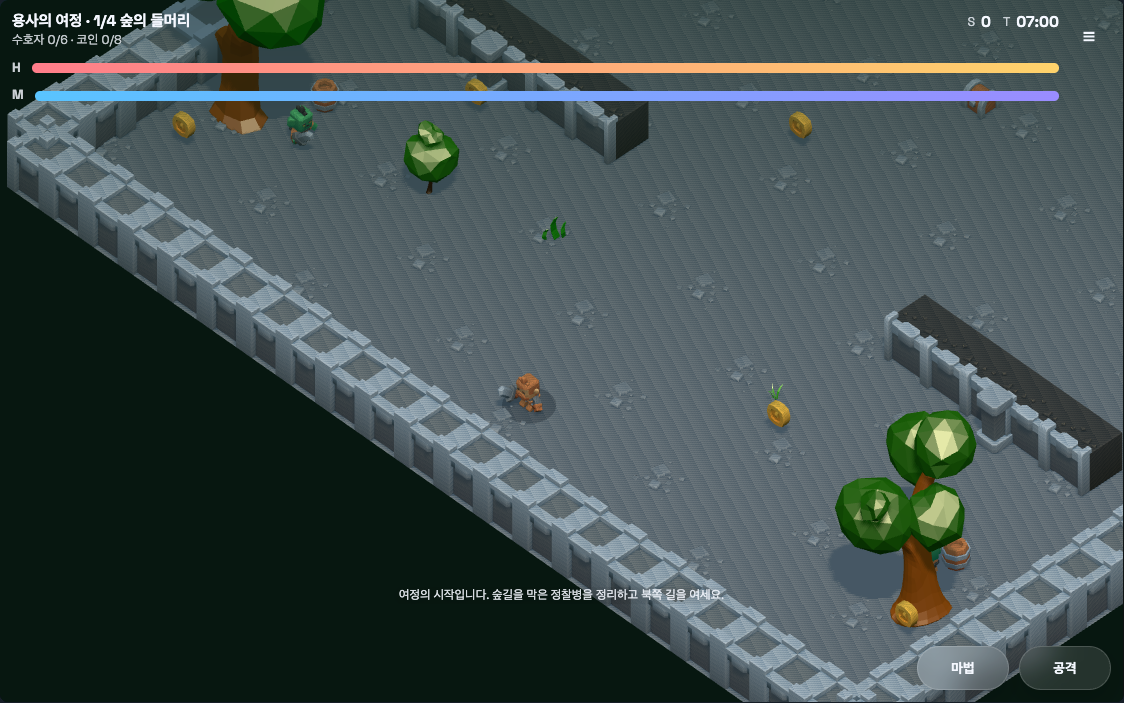
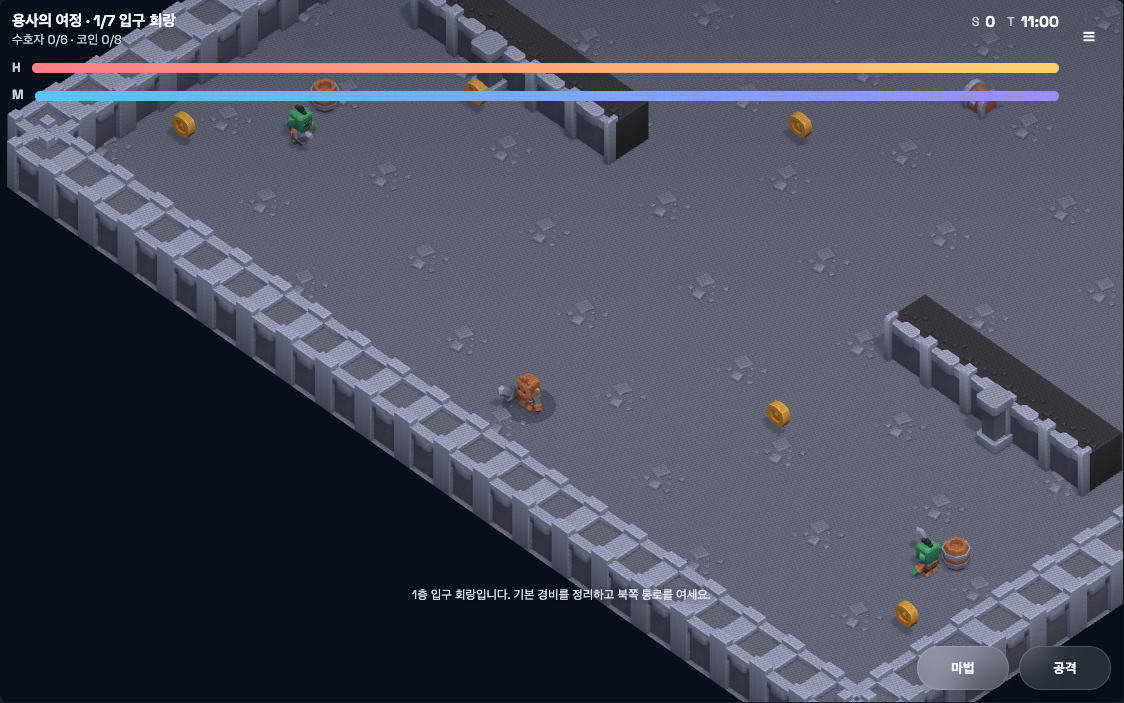
Keep dungeon stages in hero journey

diff --git a/apps/web/src/game-runtime/hero-journey.ts b/apps/web/src/game-runtime/hero-journey.ts
@@ -807,8 +807,8 @@ const JOURNEY_THEMES: Record<
     sunPosition: [2.8, 12, 5.5],
   },
   ruin: {
-    background: '#080f16',
-    fog: '#101a24',
+    background: '#071019',
+    fog: '#071019',
     fogNear: 14,
     fogFar: 40,
     sky: '#f4f8ff',
@@ -878,7 +878,7 @@ const ENEMY_RADIUS = 0.38;
 const DUEL_MELEE_DAMAGE = 18;
 const DUEL_MAGIC_DAMAGE = 14;
 const DUEL_TOTAL_TIME_MS = 180_000;
-const SOLO_TOTAL_TIME_MS = 420_000;
+const SOLO_TOTAL_TIME_MS = 660_000;
 const P2P_SNAPSHOT_INTERVAL_MS = 60;
 const P2P_ICE_GATHERING_TIMEOUT_MS = 2_500;
 const P2P_HOST_HEARTBEAT_INTERVAL_MS = 1_500;
@@ -1297,23 +1297,15 @@ function createDungeonLevels(): DungeonLevelConfig[] {
   pushHorizontalWalls(keep.walls, -6.5, -3, 3, { half: true });
 
   return [{
-    id: 'forest-road',
-    name: '숲의 들머리',
-    biome: 'forest',
-    quest: '숲길의 정찰병을 제압하고 첫 보물상자를 여세요.',
-    intro: '여정의 시작입니다. 숲길을 막은 정찰병을 정리하고 북쪽 길을 여세요.',
-    clearText: '숲길을 돌파했습니다. 사막 협곡으로 향합니다.',
+    id: 'gate-hall',
+    name: '입구 회랑',
+    biome: 'ruin',
+    quest: '흩어진 경비를 제압하고 첫 보물상자를 여세요.',
+    intro: '1층 입구 회랑입니다. 기본 경비를 정리하고 북쪽 통로를 여세요.',
+    clearText: '입구 회랑 돌파. 무너진 채석장으로 내려갑니다.',
     map: {
       ...entrance,
       props: [
-        { key: 'forest-pack', x: 0, z: -15.0, radius: 0, rotationQuarter: 0 },
-        { key: 'tree-1', x: -8.6, z: 8.0, radius: 0.62, rotationQuarter: 1 },
-        { key: 'tree-2', x: 8.5, z: 8.2, radius: 0.62, rotationQuarter: 3 },
-        { key: 'tree-3', x: -8.2, z: -8.2, radius: 0.62, rotationQuarter: 0 },
-        { key: 'bush-1', x: 7.8, z: -7.8, radius: 0.42, rotationQuarter: 2 },
-        { key: 'bush-2', x: -5.2, z: 6.7, radius: 0.42, rotationQuarter: 0 },
-        { key: 'grass-1', x: -2.8, z: 6.0, radius: 0, rotationQuarter: 0 },
-        { key: 'grass-2', x: 2.9, z: 6.1, radius: 0, rotationQuarter: 0 },
         { key: 'column', x: -6.4, z: -4.1, radius: 0.44, rotationQuarter: 0 },
         { key: 'column', x: 6.4, z: -4.1, radius: 0.44, rotationQuarter: 0 },
         { key: 'column', x: -6.4, z: 4.1, radius: 0.44, rotationQuarter: 0 },
@@ -1350,23 +1342,15 @@ function createDungeonLevels(): DungeonLevelConfig[] {
     },
   },
   {
-    id: 'sunken-canyon',
-    name: '사막 협곡',
-    biome: 'desert',
-    quest: '메마른 협곡의 잔해와 함정을 지나 길잡이 몹을 끊어내세요.',
-    intro: '뜨거운 사막 협곡입니다. 바위, 마른 풀, 함정이 길을 좁힙니다.',
-    clearText: '사막 협곡을 벗어났습니다. 바람산 고갯길로 진입합니다.',
+    id: 'broken-quarry',
+    name: '무너진 채석장',
+    biome: 'ruin',
+    quest: '잔해와 함정을 지나 빠른 정찰병을 끊어내세요.',
+    intro: '2층은 무너진 채석장입니다. 흙바닥, 돌무더기, 함정이 길을 좁힙니다.',
+    clearText: '채석장 통로 확보. 오래된 금고로 진입합니다.',
     map: {
       ...quarry,
       props: [
-        { key: 'terrain-1', x: -6.6, z: -7.9, radius: 0, rotationQuarter: 0 },
-        { key: 'terrain-2', x: 6.5, z: 6.6, radius: 0, rotationQuarter: 2 },
-        { key: 'rock-1', x: -8.1, z: 2.2, radius: 0.58, rotationQuarter: 0 },
-        { key: 'rock-3', x: 8.0, z: 1.9, radius: 0.58, rotationQuarter: 1 },
-        { key: 'rock-6', x: 6.9, z: -8.2, radius: 0.58, rotationQuarter: 2 },
-        { key: 'plant-1', x: -8.7, z: 7.8, radius: 0, rotationQuarter: 0 },
-        { key: 'plant-4', x: 8.8, z: 7.2, radius: 0, rotationQuarter: 0 },
-        { key: 'plant-5', x: -3.8, z: -7.8, radius: 0, rotationQuarter: 0 },
         { key: 'dirt', x: -8, z: -8, radius: 0, rotationQuarter: 0 },
         { key: 'dirt', x: -7, z: -8, radius: 0, rotationQuarter: 0 },
         { key: 'dirt', x: 7, z: -7, radius: 0, rotationQuarter: 0 },
@@ -1408,22 +1392,15 @@ function createDungeonLevels(): DungeonLevelConfig[] {
     },
   },
   {
-    id: 'wind-pass',
-    name: '바람산 고갯길',
-    biome: 'mountain',
-    quest: '산길의 창병과 방패병을 분리해 고개 중심을 장악하세요.',
-    intro: '차가운 바람산 고갯길입니다. 산등성이와 돌무더기가 시야와 동선을 가릅니다.',
-    clearText: '고갯길을 넘어섰습니다. 잊힌 성소가 보입니다.',
+    id: 'old-vault',
+    name: '오래된 금고',
+    biome: 'ruin',
+    quest: '방패병과 창병을 분리해서 금고 중심을 장악하세요.',
+    intro: '3층 금고입니다. 방패병이 길목을 막고 창병이 긴 사거리로 압박합니다.',
+    clearText: '금고 봉인 해제. 마지막 오크 대장 방으로 향합니다.',
     map: {
       ...vault,
       props: [
-        { key: 'mountain-1', x: -8.3, z: -7.4, radius: 1.15, rotationQuarter: 0 },
-        { key: 'mountain-2', x: 8.2, z: -7.2, radius: 1.15, rotationQuarter: 2 },
-        { key: 'mountain-3', x: 0, z: 7.6, radius: 1.15, rotationQuarter: 1 },
-        { key: 'rock-3', x: -8.2, z: 2.8, radius: 0.58, rotationQuarter: 0 },
-        { key: 'rock-6', x: 8.1, z: 2.8, radius: 0.58, rotationQuarter: 3 },
-        { key: 'tree-3', x: -4.8, z: 7.2, radius: 0.62, rotationQuarter: 1 },
-        { key: 'bush-3', x: 4.8, z: 7.2, radius: 0.42, rotationQuarter: 0 },
         { key: 'column', x: -4.2, z: -6.8, radius: 0.44, rotationQuarter: 0 },
         { key: 'column', x: 4.2, z: -6.8, radius: 0.44, rotationQuarter: 0 },
         { key: 'column', x: -4.2, z: 1.2, radius: 0.44, rotationQuarter: 0 },
@@ -1465,17 +1442,15 @@ function createDungeonLevels(): DungeonLevelConfig[] {
     },
   },
   {
-    id: 'forgotten-sanctum',
-    name: '잊힌 성소',
+    id: 'orc-keep',
+    name: '오크 대장 방',
     biome: 'ruin',
     quest: '대장을 호위병과 떼어내고 마지막 상자를 여세요.',
-    intro: '여정의 마지막 성소입니다. 대장과 호위대가 북쪽 제단을 지키고 있습니다.',
-    clearText: '성소의 대장을 쓰러뜨렸습니다. 출구 계단으로 탈출하세요.',
+    intro: '최종층입니다. 오크 대장과 호위대가 북쪽 성소를 지키고 있습니다.',
+    clearText: '오크 대장을 쓰러뜨렸습니다. 성채 밖 숲길이 열렸습니다.',
     map: {
       ...keep,
       props: [
-        { key: 'mountain-2', x: -8.6, z: 8.6, radius: 1.15, rotationQuarter: 1 },
-        { key: 'rock-1', x: 8.4, z: 8.5, radius: 0.58, rotationQuarter: 0 },
         { key: 'banner', x: -4.8, z: -9.7, radius: 0.18, rotationQuarter: 0 },
         { key: 'banner', x: 4.8, z: -9.7, radius: 0.18, rotationQuarter: 0 },
         { key: 'column', x: -6.0, z: -3.4, radius: 0.44, rotationQuarter: 0 },
@@ -1513,6 +1488,160 @@ function createDungeonLevels(): DungeonLevelConfig[] {
       ],
       playerSpawn: { x: 0, z: 9.4 },
       chest: { x: 0, z: -3.2 },
+      gate: { x: 0, z: -11.55 },
+      exit: { x: 0, z: -12.35 },
+    },
+  },
+  {
+    id: 'forest-road',
+    name: '숲의 들머리',
+    biome: 'forest',
+    quest: '성채 밖 숲길의 정찰병을 제압하고 보급 상자를 여세요.',
+    intro: '성채를 빠져나오자 숲길이 이어집니다. 나무와 덤불 사이의 정찰병을 정리하세요.',
+    clearText: '숲길을 돌파했습니다. 사막 협곡으로 향합니다.',
+    map: {
+      ...entrance,
+      props: [
+        { key: 'forest-pack', x: 0, z: -15.0, radius: 0, rotationQuarter: 0 },
+        { key: 'tree-1', x: -8.6, z: 8.0, radius: 0.62, rotationQuarter: 1 },
+        { key: 'tree-2', x: 8.5, z: 8.2, radius: 0.62, rotationQuarter: 3 },
+        { key: 'tree-3', x: -8.2, z: -8.2, radius: 0.62, rotationQuarter: 0 },
+        { key: 'bush-1', x: 7.8, z: -7.8, radius: 0.42, rotationQuarter: 2 },
+        { key: 'bush-2', x: -5.2, z: 6.7, radius: 0.42, rotationQuarter: 0 },
+        { key: 'bush-3', x: 5.2, z: -3.6, radius: 0.42, rotationQuarter: 1 },
+        { key: 'grass-1', x: -2.8, z: 6.0, radius: 0, rotationQuarter: 0 },
+        { key: 'grass-2', x: 2.9, z: 6.1, radius: 0, rotationQuarter: 0 },
+        { key: 'grass-1', x: 0.2, z: -6.4, radius: 0, rotationQuarter: 2 },
+        { key: 'barrel', x: 8.2, z: 6.8, radius: 0.42, rotationQuarter: 0 },
+        { key: 'barrel', x: -8.1, z: 6.5, radius: 0.42, rotationQuarter: 0 },
+      ],
+      coins: [
+        { x: -9.1, z: 9.0, value: 95 },
+        { x: -6.1, z: 4.7, value: 95 },
+        { x: -4.0, z: -5.9, value: 95 },
+        { x: -1.5, z: 1.2, value: 95 },
+        { x: 1.9, z: -8.9, value: 95 },
+        { x: 3.6, z: 6.7, value: 95 },
+        { x: 6.7, z: -3.7, value: 95 },
+        { x: 8.9, z: 8.7, value: 95 },
+      ],
+      enemies: [
+        createEnemy('scout', -8.2, -8.5),
+        createEnemy('scout', 8.1, -8.4),
+        createEnemy('guard', -7.8, 7.4),
+        createEnemy('guard', 8.0, 7.3),
+        createEnemy('spearman', -3.8, -2.6),
+        createEnemy('spearman', 3.9, -2.4),
+      ],
+      playerSpawn: { x: 0, z: 9.35 },
+      chest: { x: 0, z: -1.8 },
+      gate: { x: 0, z: -11.55 },
+      exit: { x: 0, z: -12.35 },
+    },
+  },
+  {
+    id: 'sunken-canyon',
+    name: '사막 협곡',
+    biome: 'desert',
+    quest: '메마른 협곡의 바위와 함정을 지나 길잡이 몹을 끊어내세요.',
+    intro: '뜨거운 사막 협곡입니다. 바위, 마른 풀, 함정이 길을 좁힙니다.',
+    clearText: '사막 협곡을 벗어났습니다. 바람산 고갯길로 진입합니다.',
+    map: {
+      ...quarry,
+      props: [
+        { key: 'terrain-1', x: -6.6, z: -7.9, radius: 0, rotationQuarter: 0 },
+        { key: 'terrain-2', x: 6.5, z: 6.6, radius: 0, rotationQuarter: 2 },
+        { key: 'rock-1', x: -8.1, z: 2.2, radius: 0.58, rotationQuarter: 0 },
+        { key: 'rock-3', x: 8.0, z: 1.9, radius: 0.58, rotationQuarter: 1 },
+        { key: 'rock-6', x: 6.9, z: -8.2, radius: 0.58, rotationQuarter: 2 },
+        { key: 'plant-1', x: -8.7, z: 7.8, radius: 0, rotationQuarter: 0 },
+        { key: 'plant-4', x: 8.8, z: 7.2, radius: 0, rotationQuarter: 0 },
+        { key: 'plant-5', x: -3.8, z: -7.8, radius: 0, rotationQuarter: 0 },
+        { key: 'dirt', x: -8, z: -8, radius: 0, rotationQuarter: 0 },
+        { key: 'dirt', x: -7, z: -8, radius: 0, rotationQuarter: 0 },
+        { key: 'dirt', x: 7, z: -7, radius: 0, rotationQuarter: 0 },
+        { key: 'stones', x: -6.8, z: -6.4, radius: 0.54, rotationQuarter: 1 },
+        { key: 'stones', x: 6.8, z: -6.1, radius: 0.54, rotationQuarter: 0 },
+        { key: 'wood-support', x: -4.7, z: 7.2, radius: 0.34, rotationQuarter: 1 },
+        { key: 'wood-support', x: 4.7, z: 7.2, radius: 0.34, rotationQuarter: 3 },
+        { key: 'trap', x: -2.5, z: 2.8, radius: 0.52, rotationQuarter: 0 },
+        { key: 'trap', x: 2.5, z: 2.8, radius: 0.52, rotationQuarter: 0 },
+        { key: 'trap', x: 0, z: -4.7, radius: 0.52, rotationQuarter: 0 },
+      ],
+      coins: [
+        { x: -8.9, z: 8.8, value: 105 },
+        { x: -6.2, z: -2.8, value: 105 },
+        { x: -4.2, z: -8.6, value: 105 },
+        { x: -1.2, z: 5.9, value: 105 },
+        { x: 1.4, z: -9.4, value: 105 },
+        { x: 4.8, z: 5.6, value: 105 },
+        { x: 7.9, z: -2.5, value: 105 },
+        { x: 8.4, z: 8.2, value: 105 },
+        { x: 0, z: -0.2, value: 150 },
+      ],
+      enemies: [
+        createEnemy('scout', -7.7, 7.4),
+        createEnemy('scout', 7.7, 7.2),
+        createEnemy('spearman', -7.3, -7.4),
+        createEnemy('spearman', 7.2, -7.2),
+        createEnemy('guard', -3.0, 0.6),
+        createEnemy('guard', 3.0, 0.8),
+        createEnemy('brute', 0, -7.0, { hp: 6, value: 275 }),
+      ],
+      playerSpawn: { x: 0, z: 9.3 },
+      chest: { x: 0, z: -2.2 },
+      gate: { x: 0, z: -11.55 },
+      exit: { x: 0, z: -12.35 },
+    },
+  },
+  {
+    id: 'wind-pass',
+    name: '바람산 고갯길',
+    biome: 'mountain',
+    quest: '산길의 창병과 방패병을 분리해 마지막 고개를 장악하세요.',
+    intro: '차가운 바람산 고갯길입니다. 산등성이와 돌무더기가 시야와 동선을 가릅니다.',
+    clearText: '고갯길을 넘어섰습니다. 출구 계단으로 여정을 마무리하세요.',
+    map: {
+      ...vault,
+      props: [
+        { key: 'mountain-1', x: -8.3, z: -7.4, radius: 1.15, rotationQuarter: 0 },
+        { key: 'mountain-2', x: 8.2, z: -7.2, radius: 1.15, rotationQuarter: 2 },
+        { key: 'mountain-3', x: 0, z: 7.6, radius: 1.15, rotationQuarter: 1 },
+        { key: 'rock-3', x: -8.2, z: 2.8, radius: 0.58, rotationQuarter: 0 },
+        { key: 'rock-6', x: 8.1, z: 2.8, radius: 0.58, rotationQuarter: 3 },
+        { key: 'tree-3', x: -4.8, z: 7.2, radius: 0.62, rotationQuarter: 1 },
+        { key: 'bush-3', x: 4.8, z: 7.2, radius: 0.42, rotationQuarter: 0 },
+        { key: 'stones', x: -8.4, z: -3.4, radius: 0.54, rotationQuarter: 0 },
+        { key: 'stones', x: 8.4, z: -3.4, radius: 0.54, rotationQuarter: 0 },
+        { key: 'trap', x: -2.2, z: -3.8, radius: 0.52, rotationQuarter: 0 },
+        { key: 'trap', x: 2.2, z: -3.8, radius: 0.52, rotationQuarter: 0 },
+        { key: 'banner', x: -1.8, z: -10.4, radius: 0.18, rotationQuarter: 0 },
+        { key: 'banner', x: 1.8, z: -10.4, radius: 0.18, rotationQuarter: 0 },
+      ],
+      coins: [
+        { x: -8.6, z: 8.7, value: 120 },
+        { x: -8.1, z: -6.2, value: 120 },
+        { x: -5.2, z: 2.4, value: 120 },
+        { x: -2.0, z: -8.6, value: 120 },
+        { x: 0, z: 5.8, value: 170 },
+        { x: 2.0, z: -8.6, value: 120 },
+        { x: 5.2, z: 2.4, value: 120 },
+        { x: 8.1, z: -6.2, value: 120 },
+        { x: 8.6, z: 8.7, value: 120 },
+      ],
+      enemies: [
+        createEnemy('warden', 0, -7.2, { rotationQuarter: 2, value: 420 }),
+        createEnemy('brute', -7.8, 6.6, { hp: 6 }),
+        createEnemy('brute', 7.8, 6.6, { hp: 6 }),
+        createEnemy('spearman', -7.8, -6.4),
+        createEnemy('spearman', 7.8, -6.4),
+        createEnemy('guard', -2.2, 1.0),
+        createEnemy('guard', 2.2, 1.0),
+        createEnemy('scout', -1.8, -8.4),
+        createEnemy('scout', 1.8, -8.4),
+      ],
+      playerSpawn: { x: 0, z: 9.2 },
+      chest: { x: 0, z: -1.2 },
       gate: { x: 0, z: -11.55 },
       exit: { x: 0, z: -12.35 },
     },

diff --git a/apps/api/src/data/seed.ts b/apps/api/src/data/seed.ts
@@ -467,13 +467,13 @@ export const seedGames: GameEntity[] = [
     id: randomUUID(),
     slug: 'hero-journey',
     title: '용사의 여정',
-    shortDescription: '숲, 사막 협곡, 산길, 성소를 넘나드는 저폴리 액션 RPG',
+    shortDescription: '기존 던전 4구간 이후 숲, 사막 협곡, 산길로 이어지는 저폴리 액션 RPG',
     description:
-      '용사의 여정은 저폴리 캐릭터와 환경 에셋을 활용한 모험 액션 RPG입니다. 숲의 들머리, 사막 협곡, 바람산 고갯길, 잊힌 성소를 차례로 돌파하며 수호자를 상대하고 보물상자를 열어 다음 여정으로 이동합니다.',
+      '용사의 여정은 기존 던전 액션 구조를 유지하면서 야외 환경 에셋 스테이지를 확장한 저폴리 액션 RPG입니다. 입구 회랑, 무너진 채석장, 오래된 금고, 오크 대장 방을 돌파한 뒤 숲의 들머리, 사막 협곡, 바람산 고갯길로 이어지는 여정을 진행합니다.',
     thumbnailUrl: `${env.webOrigin}/assets/hero-journey/screenshot.png`,
     bannerUrl: `${env.webOrigin}/assets/hero-journey/sample.png`,
     entryUrl: `${env.webOrigin}/games/hero-journey/index.html`,
-    version: '1.2.0',
+    version: '1.2.1',
     engineType: 'webgl',
     orientation: 'landscape',
     aspectRatio: '16:10',
@@ -491,7 +491,7 @@ export const seedGames: GameEntity[] = [
     publishedAt: byOffsetHours(1),
     validationRule: {
       minPlayTimeMs: 5000,
-      maxScore: 120000,
+      maxScore: 180000,
       allowedModes: ['normal'],
     },
     relatedSlugs: ['pixel-harvest', 'neoguri', 'galaga'],
